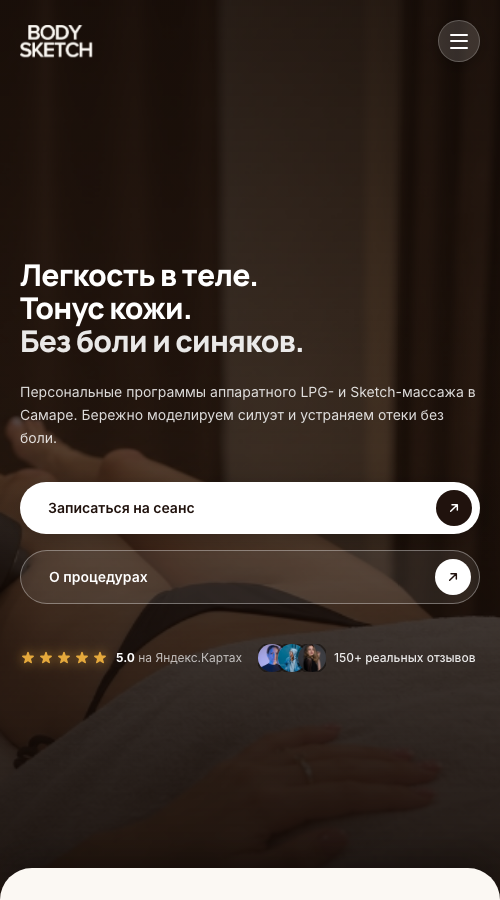
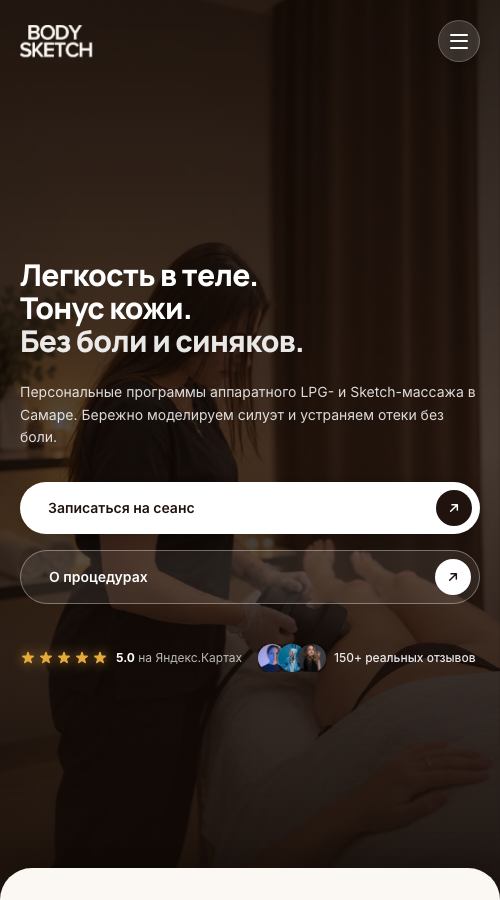
feat: use authentic portrait studio photo for mobile background

diff --git a/assets/styles.css b/assets/styles.css
@@ -71,7 +71,8 @@ body {
 
 @media (max-width: 1024px) {
   .hero-bg-media {
-    background-position: 72% center;
+    background-image: url('body-sketch-mobile.jpg');
+    background-position: center center;
   }
 }
 
